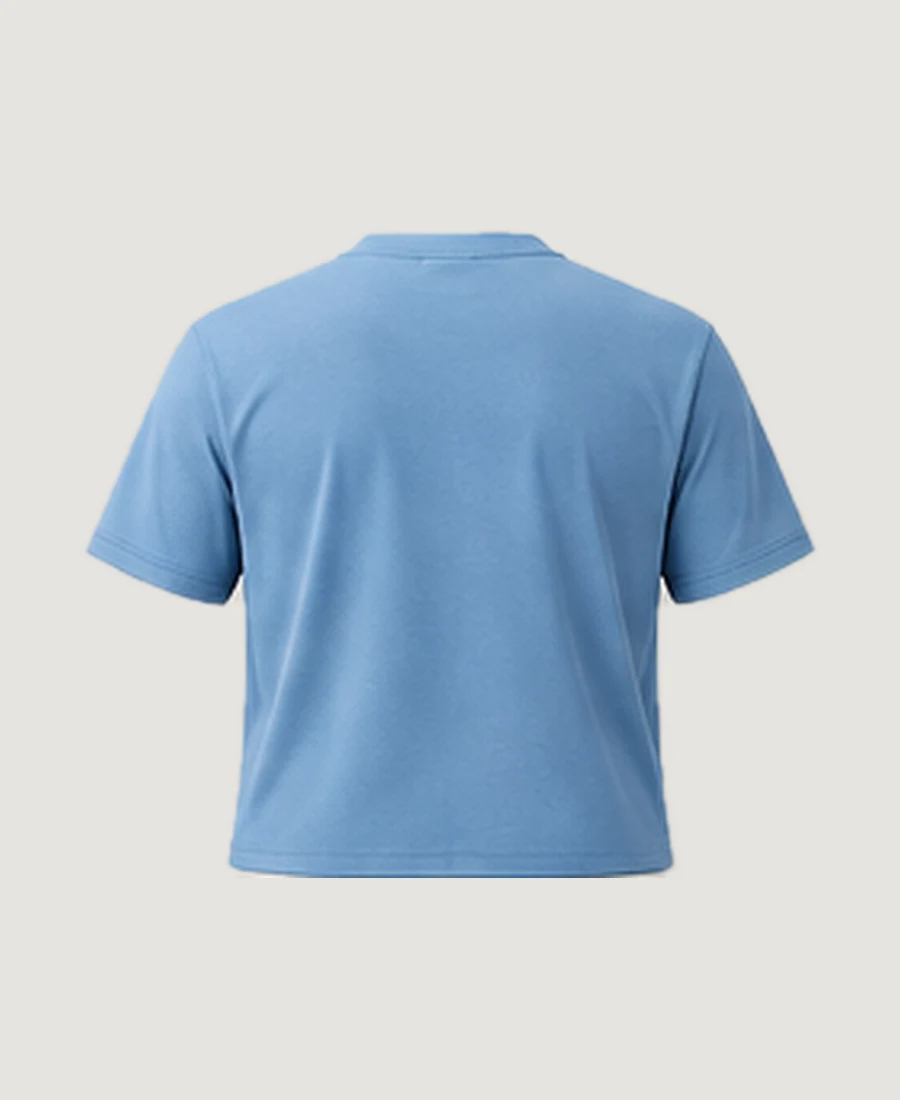
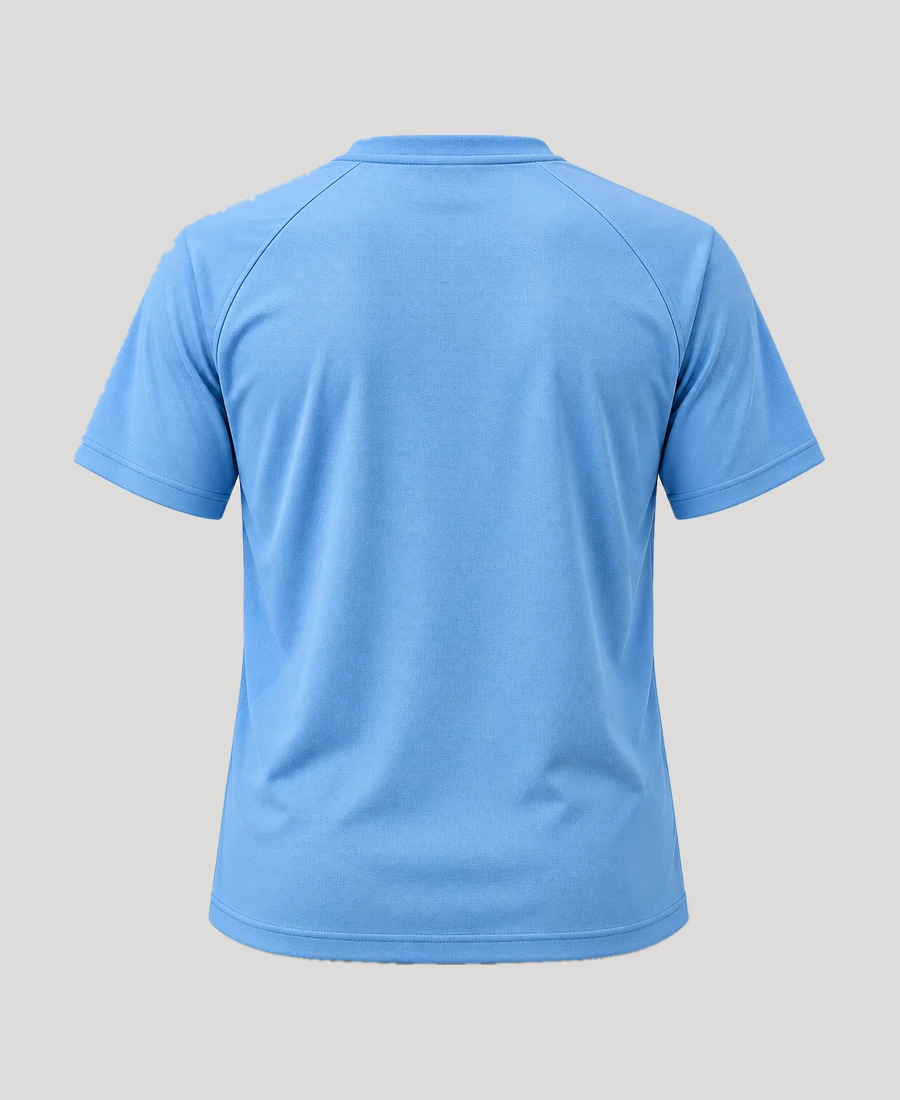
fix(showroom): replace six truncated Campus Tee views with full-length independent renders

diff --git a/public/ttc-integration.js b/public/ttc-integration.js
@@ -30,7 +30,7 @@ applyPoloViews();
 /* Active Campus Tee: production-recorded 4-color / 3-angle digital concept views.
    Two colors use independent source images; sky and terracotta were extracted from a generated source sheet.
    No manufacturing claims are implied by these renderings. */
-const TEE_CONCEPT_VIEWS={"deepGreen":{"front":{"url":"/assets/showroom/TTC-SCH-003/deepGreen/front.webp","alt":"Active Campus Tee — deepGreen front digital concept view","status":"concept"},"side":{"url":"/assets/showroom/TTC-SCH-003/deepGreen/side.webp","alt":"Active Campus Tee — deepGreen side digital concept view","status":"concept"},"back":{"url":"/assets/showroom/TTC-SCH-003/deepGreen/back.webp","alt":"Active Campus Tee — deepGreen back digital concept view","status":"concept"}},"navy":{"front":{"url":"/assets/showroom/TTC-SCH-003/navy/front.webp","alt":"Active Campus Tee — navy front digital concept view","status":"concept"},"side":{"url":"/assets/showroom/TTC-SCH-003/navy/side.webp","alt":"Active Campus Tee — navy side digital concept view","status":"concept"},"back":{"url":"/assets/showroom/TTC-SCH-003/navy/back.webp","alt":"Active Campus Tee — navy back digital concept view","status":"concept"}},"sky":{"front":{"url":"/assets/showroom/TTC-SCH-003/sky/front.webp","alt":"Active Campus Tee — sky front digital concept view","status":"concept"},"side":{"url":"/assets/showroom/TTC-SCH-003/sky/side.webp","alt":"Active Campus Tee — sky side digital concept view","status":"concept"},"back":{"url":"/assets/showroom/TTC-SCH-003/sky/back.webp","alt":"Active Campus Tee — sky back digital concept view","status":"concept"}},"terracotta":{"front":{"url":"/assets/showroom/TTC-SCH-003/terracotta/front.webp","alt":"Active Campus Tee — terracotta front digital concept view","status":"concept"},"side":{"url":"/assets/showroom/TTC-SCH-003/terracotta/side.webp","alt":"Active Campus Tee — terracotta side digital concept view","status":"concept"},"back":{"url":"/assets/showroom/TTC-SCH-003/terracotta/back.webp","alt":"Active Campus Tee — terracotta back digital concept view","status":"concept"}}};
+const TEE_CONCEPT_VIEWS={"deepGreen":{"front":{"url":"/assets/showroom/TTC-SCH-003/deepGreen/front.webp","alt":"Active Campus Tee — deepGreen front digital concept view","status":"concept"},"side":{"url":"/assets/showroom/TTC-SCH-003/deepGreen/side.webp","alt":"Active Campus Tee — deepGreen side digital concept view","status":"concept"},"back":{"url":"/assets/showroom/TTC-SCH-003/deepGreen/back.webp","alt":"Active Campus Tee — deepGreen back digital concept view","status":"concept"}},"navy":{"front":{"url":"/assets/showroom/TTC-SCH-003/navy/front.webp","alt":"Active Campus Tee — navy front digital concept view","status":"concept"},"side":{"url":"/assets/showroom/TTC-SCH-003/navy/side.webp","alt":"Active Campus Tee — navy side digital concept view","status":"concept"},"back":{"url":"/assets/showroom/TTC-SCH-003/navy/back.webp","alt":"Active Campus Tee — navy back digital concept view","status":"concept"}},"sky":{"front":{"url":"/assets/showroom/TTC-SCH-003/sky/front.webp?v=ttc003-20261028b","alt":"Active Campus Tee — sky front digital concept view","status":"concept"},"side":{"url":"/assets/showroom/TTC-SCH-003/sky/side.webp?v=ttc003-20261028b","alt":"Active Campus Tee — sky side digital concept view","status":"concept"},"back":{"url":"/assets/showroom/TTC-SCH-003/sky/back.webp?v=ttc003-20261028b","alt":"Active Campus Tee — sky back digital concept view","status":"concept"}},"terracotta":{"front":{"url":"/assets/showroom/TTC-SCH-003/terracotta/front.webp?v=ttc003-20261028b","alt":"Active Campus Tee — terracotta front digital concept view","status":"concept"},"side":{"url":"/assets/showroom/TTC-SCH-003/terracotta/side.webp?v=ttc003-20261028b","alt":"Active Campus Tee — terracotta side digital concept view","status":"concept"},"back":{"url":"/assets/showroom/TTC-SCH-003/terracotta/back.webp?v=ttc003-20261028b","alt":"Active Campus Tee — terracotta back digital concept view","status":"concept"}}};
 function applyTeeViews(){
  const p=products.find(v=>v.id==='pe-set');if(!p)return;
  const palette={"deepGreen":"#28584f","navy":"#263d59","sky":"#8eabbf","terracotta":"#a5664e"};
